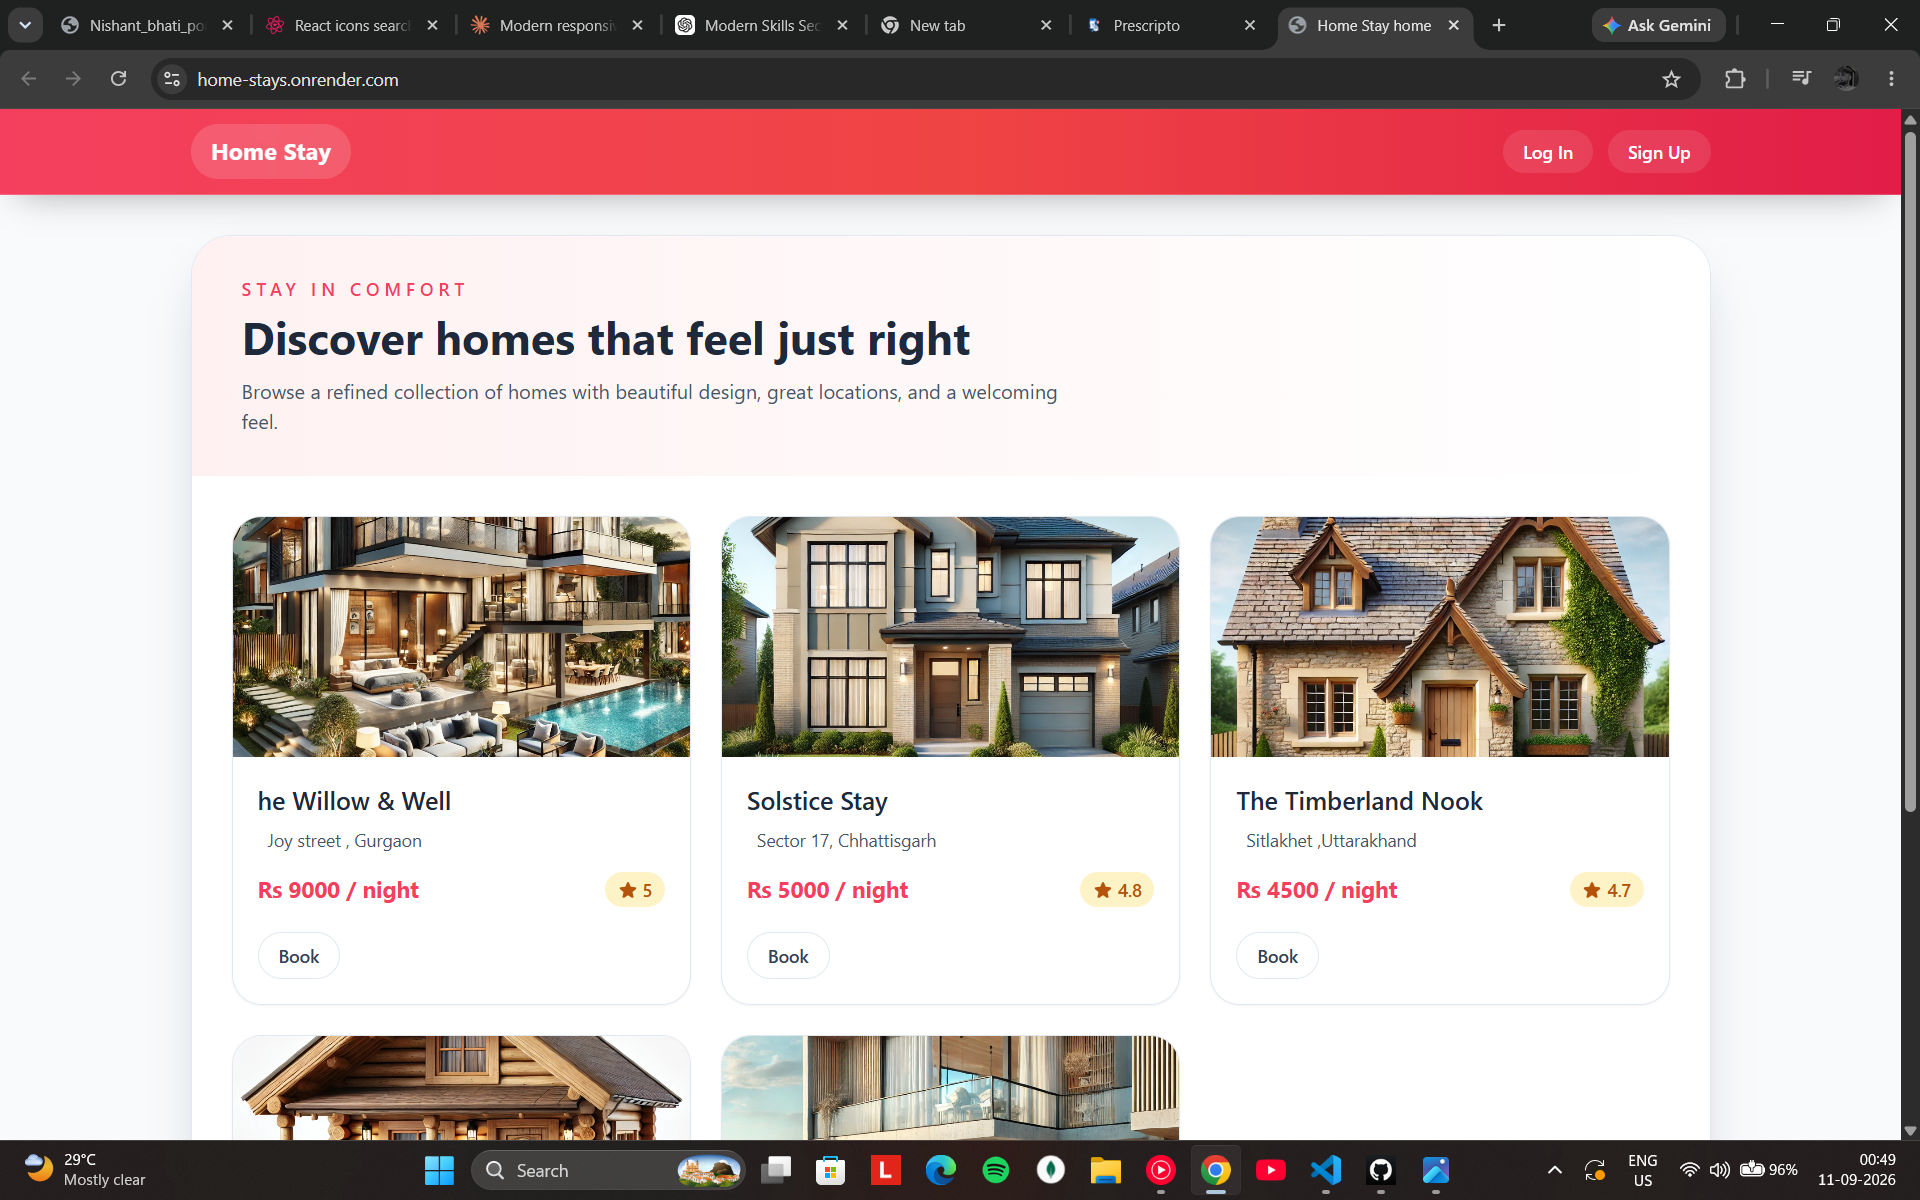
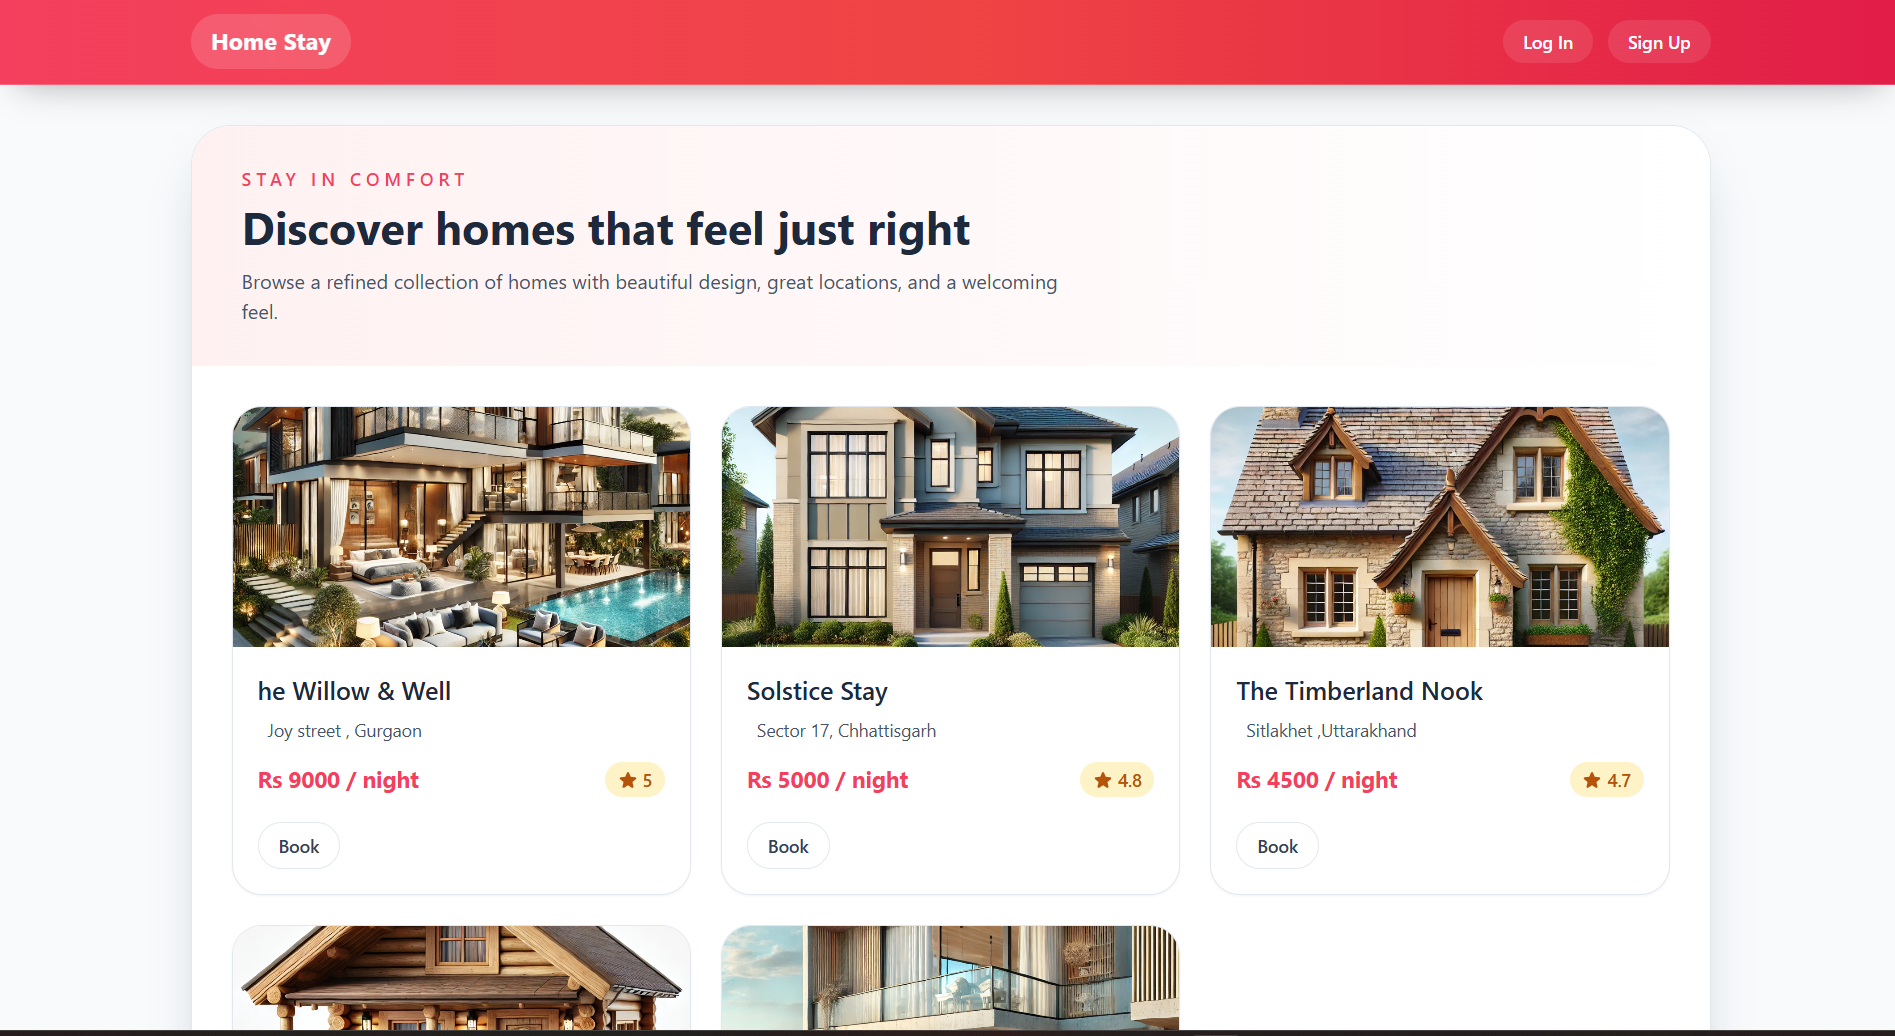
Enhance About, Contact, Education, Navabr, Projects, and Skills components with improved layout, styling, and content

diff --git a/src/Components/Skills.jsx b/src/Components/Skills.jsx
@@ -53,7 +53,7 @@ const Skills = () => {
         {/* JavaScript */}
         <div className="group rounded-xl sm:rounded-2xl border border-slate-800 bg-slate-900/70 p-px shadow-lg transition-all duration-300 hover:-translate-y-2 hover:border-blue-500/50 hover:shadow-blue-500/10">
           <div className="flex h-full flex-col items-center rounded-xl sm:rounded-2xl bg-slate-900 px-2 py-4 sm:px-5 sm:py-7 lg:px-6 lg:py-8 text-center backdrop-blur-xl">
-            <div className="mb-2 sm:mb-4 lg:mb-5 flex h-9 w-9 sm:h-14 sm:w-14 lg:h-16 lg:w-16 items-center justify-center rounded-lg sm:rounded-2xl bg-cyan-400/10 text-cyan-400 transition-transform duration-300 group-hover:scale-110">
+            <div className="mb-2 sm:mb-4 lg:mb-5 flex h-9 w-9 sm:h-14 sm:w-14 lg:h-16 lg:w-16 items-center justify-center rounded-lg sm:rounded-2xl bg-yellow-500/10 text-yellow-500 transition-transform duration-300 group-hover:scale-110">
               <IoLogoJavascript className="text-2xl sm:text-3xl lg:text-4xl" />
             </div>
 
@@ -70,7 +70,7 @@ const Skills = () => {
         {/* HTML & CSS */}
         <div className="group rounded-xl sm:rounded-2xl border border-slate-800 bg-slate-900/70 p-px shadow-lg transition-all duration-300 hover:-translate-y-2 hover:border-blue-500/50 hover:shadow-blue-500/10">
           <div className="flex h-full flex-col items-center rounded-xl sm:rounded-2xl bg-slate-900 px-2 py-4 sm:px-5 sm:py-7 lg:px-6 lg:py-8 text-center backdrop-blur-xl">
-            <div className="mb-2 sm:mb-4 lg:mb-5 flex h-9 w-9 sm:h-14 sm:w-14 lg:h-16 lg:w-16 items-center justify-center rounded-lg sm:rounded-2xl bg-cyan-400/10 text-cyan-400 transition-transform duration-300 group-hover:scale-110">
+            <div className="mb-2 sm:mb-4 lg:mb-5 flex h-9 w-9 sm:h-14 sm:w-14 lg:h-16 lg:w-16 items-center justify-center rounded-lg sm:rounded-2xl bg-orange-500/10 text-orange-500 transition-transform duration-300 group-hover:scale-110">
               <FaHtml5 className="text-2xl sm:text-3xl lg:text-4xl" />
             </div>
 
@@ -87,7 +87,7 @@ const Skills = () => {
         {/* Node.js */}
         <div className="group rounded-xl sm:rounded-2xl border border-slate-800 bg-slate-900/70 p-px shadow-lg transition-all duration-300 hover:-translate-y-2 hover:border-blue-500/50 hover:shadow-blue-500/10">
           <div className="flex h-full flex-col items-center rounded-xl sm:rounded-2xl bg-slate-900 px-2 py-4 sm:px-5 sm:py-7 lg:px-6 lg:py-8 text-center backdrop-blur-xl">
-            <div className="mb-2 sm:mb-4 lg:mb-5 flex h-9 w-9 sm:h-14 sm:w-14 lg:h-16 lg:w-16 items-center justify-center rounded-lg sm:rounded-2xl bg-cyan-400/10 text-cyan-400 transition-transform duration-300 group-hover:scale-110">
+            <div className="mb-2 sm:mb-4 lg:mb-5 flex h-9 w-9 sm:h-14 sm:w-14 lg:h-16 lg:w-16 items-center justify-center rounded-lg sm:rounded-2xl bg-green-500/10 text-green-500 transition-transform duration-300 group-hover:scale-110">
               <FaNodeJs className="text-2xl sm:text-3xl lg:text-4xl" />
             </div>
 
@@ -104,7 +104,7 @@ const Skills = () => {
         {/* Express */}
         <div className="group rounded-xl sm:rounded-2xl border border-slate-800 bg-slate-900/70 p-px shadow-lg transition-all duration-300 hover:-translate-y-2 hover:border-blue-500/50 hover:shadow-blue-500/10">
           <div className="flex h-full flex-col items-center rounded-xl sm:rounded-2xl bg-slate-900 px-2 py-4 sm:px-5 sm:py-7 lg:px-6 lg:py-8 text-center backdrop-blur-xl">
-            <div className="mb-2 sm:mb-4 lg:mb-5 flex h-9 w-9 sm:h-14 sm:w-14 lg:h-16 lg:w-16 items-center justify-center rounded-lg sm:rounded-2xl bg-cyan-400/10 text-cyan-400 transition-transform duration-300 group-hover:scale-110">
+            <div className="mb-2 sm:mb-4 lg:mb-5 flex h-9 w-9 sm:h-14 sm:w-14 lg:h-16 lg:w-16 items-center justify-center rounded-lg sm:rounded-2xl bg-gray-400/10 text-gray-200 transition-transform duration-300 group-hover:scale-110">
               <SiExpress className="text-2xl sm:text-3xl lg:text-4xl" />
             </div>
 
@@ -121,7 +121,7 @@ const Skills = () => {
         {/* MongoDB */}
         <div className="group rounded-xl sm:rounded-2xl border border-slate-800 bg-slate-900/70 p-px shadow-lg transition-all duration-300 hover:-translate-y-2 hover:border-blue-500/50 hover:shadow-blue-500/10">
           <div className="flex h-full flex-col items-center rounded-xl sm:rounded-2xl bg-slate-900 px-2 py-4 sm:px-5 sm:py-7 lg:px-6 lg:py-8 text-center backdrop-blur-xl">
-            <div className="mb-2 sm:mb-4 lg:mb-5 flex h-9 w-9 sm:h-14 sm:w-14 lg:h-16 lg:w-16 items-center justify-center rounded-lg sm:rounded-2xl bg-cyan-400/10 text-cyan-400 transition-transform duration-300 group-hover:scale-110">
+            <div className="mb-2 sm:mb-4 lg:mb-5 flex h-9 w-9 sm:h-14 sm:w-14 lg:h-16 lg:w-16 items-center justify-center rounded-lg sm:rounded-2xl bg-green-500/10 text-green-500 transition-transform duration-300 group-hover:scale-110">
               <SiMongodb className="text-2xl sm:text-3xl lg:text-4xl" />
             </div>
 

diff --git a/src/Components/Navabr.jsx b/src/Components/Navabr.jsx
@@ -16,12 +16,9 @@ const Navabr = () => {
   ];
   return (
     <div className="sticky top-0 z-50 w-full">
-      {" "}
       <nav className="border-b border-slate-700/60 bg-gray-900/95 px-5 py-3 shadow-lg backdrop-blur-md sm:px-8 lg:px-12">
-        {" "}
         <div className="mx-auto flex max-w-7xl items-center justify-between">
-          {" "}
-          {/* Logo */}{" "}
+          {/* Logo */}
           <a
             href="#Home"
             onClick={() => {
@@ -30,16 +27,14 @@ const Navabr = () => {
             }}
             className="shrink-0"
           >
-            {" "}
             <img
               className="h-11 w-11 sm:h-12 sm:w-12"
               src="/logo-NB.svg"
               alt="NB Logo"
-            />{" "}
-          </a>{" "}
-          {/* Desktop Navigation */}{" "}
+            />
+          </a>
+          {/* Desktop Navigation */}
           <div className="hidden items-center gap-7 md:flex lg:gap-9">
-            {" "}
             {navItems.map((item) => (
               <a
                 key={item}
@@ -47,46 +42,41 @@ const Navabr = () => {
                 onClick={() => setActive(item)}
                 className={`relative py-2 text-sm font-medium transition-all duration-300 lg:text-base ${active === item ? "text-blue-400" : "text-gray-300 hover:text-white"} `}
               >
-                {" "}
-                {item} {/* Active underline */}{" "}
+                {item} {/* Active underline */}
                 <span
                   className={`absolute bottom-0 left-0 h-0.5 rounded-full bg-blue-500 transition-all duration-300 ${active === item ? "w-full" : "w-0"} `}
-                ></span>{" "}
+                ></span>
+                
               </a>
-            ))}{" "}
-          </div>{" "}
-          {/* Desktop Resume Button */}{" "}
+            ))}
+          </div>
+          {/* Desktop Resume Button */}
           <a
             href="/resume.pdf"
             download
             className="hidden items-center gap-2 rounded-full bg-linear-to-r from-blue-600 to-sky-400 px-5 py-2.5 text-sm font-semibold text-white shadow-md shadow-blue-500/20 transition-all duration-300 hover:-translate-y-0.5 hover:shadow-lg hover:shadow-blue-500/30 md:flex"
           >
-            {" "}
-            <MdDownload className="text-xl" /> Download Resume{" "}
-          </a>{" "}
-          {/* Mobile Menu Button */}{" "}
+            <MdDownload className="text-xl" /> Download Resume
+          </a>
+          {/* Mobile Menu Button */}
           <button
             onClick={() => setMenuOpen(!menuOpen)}
             className="flex h-10 w-10 items-center justify-center rounded-lg border border-slate-600 text-gray-200 transition hover:border-blue-400 hover:text-blue-400 md:hidden"
             aria-label="Toggle menu"
           >
-            {" "}
             {menuOpen ? (
               <MdClose className="text-2xl" />
             ) : (
               <MdMenu className="text-2xl" />
-            )}{" "}
-          </button>{" "}
-        </div>{" "}
-        {/* Mobile Menu */}{" "}
+            )}
+          </button>
+        </div>
+        {/* Mobile Menu */}
         <div
           className={`overflow-hidden transition-all duration-300 md:hidden ${menuOpen ? "max-h-96 opacity-100" : "max-h-0 opacity-0"}`}
         >
-          {" "}
           <div className="mt-4 border-t border-slate-700 pt-4 pb-2">
-            {" "}
             <div className="flex flex-col gap-1">
-              {" "}
               {navItems.map((item) => (
                 <a
                   key={item}
@@ -97,23 +87,21 @@ const Navabr = () => {
                   }}
                   className={`rounded-lg px-4 py-3 text-sm font-medium transition-all duration-200 ${active === item ? "bg-blue-500/10 text-blue-400" : "text-gray-300 hover:bg-slate-700/50 hover:text-white"} `}
                 >
-                  {" "}
-                  {item}{" "}
+                  {item}
                 </a>
-              ))}{" "}
-            </div>{" "}
-            {/* Mobile Resume */}{" "}
+              ))}
+            </div>
+            {/* Mobile Resume */}
             <a
               href="/resume.pdf"
               download
               className="mt-4 flex items-center justify-center gap-2 rounded-full bg-linear-to-r from-blue-600 to-sky-400 px-5 py-3 text-sm font-semibold text-white"
             >
-              {" "}
-              <MdDownload className="text-xl" /> Download Resume{" "}
-            </a>{" "}
-          </div>{" "}
-        </div>{" "}
-      </nav>{" "}
+              <MdDownload className="text-xl" /> Download Resume
+            </a>
+          </div>
+        </div>
+      </nav>
     </div>
   );
 };

diff --git a/src/Components/Education.jsx b/src/Components/Education.jsx
@@ -1,15 +1,125 @@
 import React from "react";
+import { GiGraduateCap } from "react-icons/gi";
+import { FaCode } from "react-icons/fa";
+import { FaHouseLaptop } from "react-icons/fa6";
 
 const Eduaction = () => {
   return (
-    <div id="Education">
-      Eduaction Lorem ipsum dolor sit amet consectetur, adipisicing elit. Ab
-      suscipit est voluptates maxime, velit repudiandae ad obcaecati corporis,
-      accusantium, fugiat consequatur amet. Et dolores amet, aliquam, suscipit
-      rem aut, neque vero veritatis voluptate enim minima vitae reiciendis ex
-      consequatur in ipsa aspernatur fugiat explicabo autem? Vel, veniam. Saepe
-      distinctio nam a alias possimus perferendis architecto reprehenderit.
+
+<div id="Education" className="px-5 py-12 sm:px-8 lg:px-16  bg-gray-800">
+
+  {/* Section Heading */}
+  <div className="mb-12">
+    <div className="flex items-center gap-3">
+      <div className="w-8 sm:w-10">
+        <hr className="h-1 rounded-full border-0 bg-linear-to-r from-sky-200 via-blue-400 to-blue-500" />
+      </div>
+
+      <h2 className="text-2xl font-bold bg-linear-to-r from-blue-500 via-sky-400 to-blue-500 bg-clip-text text-transparent sm:text-3xl lg:text-4xl">
+        Experience & Education
+      </h2>
     </div>
+
+    <div className="mt-2 flex items-center gap-3">
+      <div className="w-8 sm:w-10">
+        <hr className="h-0.5 rounded-full border-0 bg-linear-to-r from-blue-400 via-blue-400 to-blue-500" />
+      </div>
+
+      <p className="text-xs text-gray-300 sm:text-sm lg:text-base">
+        My journey so far
+      </p>
+    </div>
+  </div>
+
+
+  {/* Timeline */}
+  <div className="relative">
+
+    {/* Desktop connecting line */}
+    <div className="absolute left-0 right-0 top-8 hidden h-0.5 bg-linear-to-r from-blue-200 via-blue-500 to-sky-300 md:block" />
+
+    <div className="grid grid-cols-1 gap-10 md:grid-cols-3 md:gap-5">
+
+      {/* Education */}
+      <div className="relative flex flex-col items-center text-center">
+
+        {/* Icon */}
+        <div className="relative z-10 flex h-16 w-16 items-center justify-center rounded-full bg-gray-800 shadow-lg shadow-blue-500/20 transition duration-300 hover:scale-110">
+          <GiGraduateCap className="text-3xl text-gray-100 sm:text-4xl" />
+        </div>
+
+        {/* Content */}
+        <div className="mt-5">
+          <p className="text-lg font-semibold text-gray-50">
+            B.Tech
+          </p>
+
+          <p className="mt-1 text-sm font-medium text-blue-500">
+            Final Year
+          </p>
+
+          <p className="mt-2 text-xs text-gray-300 sm:text-sm">
+            Currently pursuing my Bachelor's degree in Computer Science.
+          </p>
+        </div>
+      </div>
+
+
+      {/* Development */}
+      <div className="relative flex flex-col items-center text-center">
+
+        {/* Icon */}
+        <div className="relative z-10 flex h-16 w-16 items-center justify-center rounded-full bg-gray-800 shadow-lg shadow-blue-500/20 transition duration-300 hover:scale-110">
+          <FaCode className="text-2xl text-gray-100 sm:text-3xl" />
+        </div>
+
+        {/* Content */}
+        <div className="mt-5">
+          <p className="text-lg font-semibold text-gray-50">
+            Web Development
+          </p>
+
+          <p className="mt-1 text-sm font-medium text-blue-500">
+            Full Stack
+          </p>
+
+          <p className="mt-2 text-xs text-gray-300 sm:text-sm">
+            Building projects with React, Node.js, Express.js and MongoDB.
+          </p>
+        </div>
+      </div>
+
+
+      {/* Experience */}
+      <div className="relative flex flex-col items-center text-center">
+
+        {/* Icon */}
+        <div className="relative z-10 flex h-16 w-16 items-center justify-center rounded-full bg-gray-800 shadow-lg shadow-blue-500/20 transition duration-300 hover:scale-110">
+          <FaHouseLaptop className="text-2xl text-gray-100 sm:text-3xl" />
+        </div>
+
+        {/* Content */}
+        <div className="mt-5">
+          <p className="text-lg font-semibold text-gray-50">
+            Open for Opportunities
+          </p>
+
+          <p className="mt-1 text-sm font-medium text-blue-500">
+            Learning & Building
+          </p>
+
+          <p className="mt-2 text-xs text-gray-300 sm:text-sm">
+            Developing real-world projects and improving my full-stack skills.
+          </p>
+        </div>
+      </div>
+
+    </div>
+  </div>
+
+</div>
+
+
   );
 };
 

diff --git a/src/Components/Contact.jsx b/src/Components/Contact.jsx
@@ -2,11 +2,33 @@ import React from "react";
 
 const Contact = () => {
   return (
-    <div id="Contact">
-      Conatct Lorem ipsum dolor sit amet consectetur adipisicing elit. Assumenda
-      consequatur, ab atque praesentium quae velit perspiciatis dolor tempora
-      eius, aliquam tenetur enim commodi accusamus quis amet ipsum cum, aperiam
-      pariatur repudiandae eaque? Asperiores, repudiandae.
+    <div id="Contact" className="w-full pb-100 bg-gray-200">
+      <div className="flex items-center">
+
+        <div className="m-10 p-5 w-1/2  bg-gray-800 rounded-2xl">
+          <div className="flex items-center gap-3">
+            <div className="w-8 sm:w-10">
+              <hr className="h-1 rounded-full border-0 bg-linear-to-r from-sky-200 via-blue-400 to-blue-500" />
+            </div>
+
+            <h2 className="text-2xl font-bold bg-linear-to-r from-blue-500 via-sky-400 to-blue-500 bg-clip-text text-transparent sm:text-3xl lg:text-4xl">
+              Experience & Education
+            </h2>
+          </div>
+
+          <p className="text-small p-3 text-gray-100">
+            I'm always open to discussing new opportunuties , <br />{" "}
+            collaborations or just a quick chat
+          </p>
+        </div>
+
+        <div>
+          <p>
+            Lorem ipsum dolor sit amet consectetur, adipisicing elit. Optio
+            mollitia iusto cum sint?
+          </p>
+        </div>
+      </div>
     </div>
   );
 };

diff --git a/src/Components/Projects.jsx b/src/Components/Projects.jsx
@@ -5,7 +5,7 @@ const Projects = () => {
   return (
     <div
       id="Projects"
-      className="w-full bg-gray-100 px-5 py-16 sm:px-8 sm:py-20 lg:px-16"
+      className="w-full bg-gray-200 px-5 py-16 sm:px-8 sm:py-20 lg:px-16"
     >
       {/* Section Header */}
       <div className="mx-auto mb-10 flex max-w-6xl items-end justify-between gap-6 sm:mb-14">
@@ -33,7 +33,9 @@ const Projects = () => {
 
         {/* View All */}
         <a
-          href="#"
+          href="https://github.com/bhatinishant38?tab=repositories&q=&type=&language=&sort=stargazers"
+          target="_blank" 
+          rel="noopener noreferrer"
           className="group hidden shrink-0 items-center gap-2 text-sm font-semibold text-blue-600 transition-colors hover:text-blue-800 sm:flex"
         >
           View All Projects

diff --git a/src/Components/About.jsx b/src/Components/About.jsx
@@ -67,7 +67,7 @@ const About = () => {
           <div className="w-6 sm:w-10">
             <hr className="h-1 border-0 my-4 sm:my-8 bg-linear-to-r from-sky-100 via-blue-400 to-blue-500 rounded-full" />
           </div>
-          <div className="text-lg sm:text-xl font-bold bg-linear-to-r from-sky-100 via-blue-400 to-blue-500 bg-clip-text text-transparent">My Skills</div>
+          <div className="text-lg sm:text-xl font-bold bg-linear-to-r from-sky-100 via-blue-400 to-blue-500 bg-clip-text text-transparent">Quick Facts</div>
         </div>
         
 
